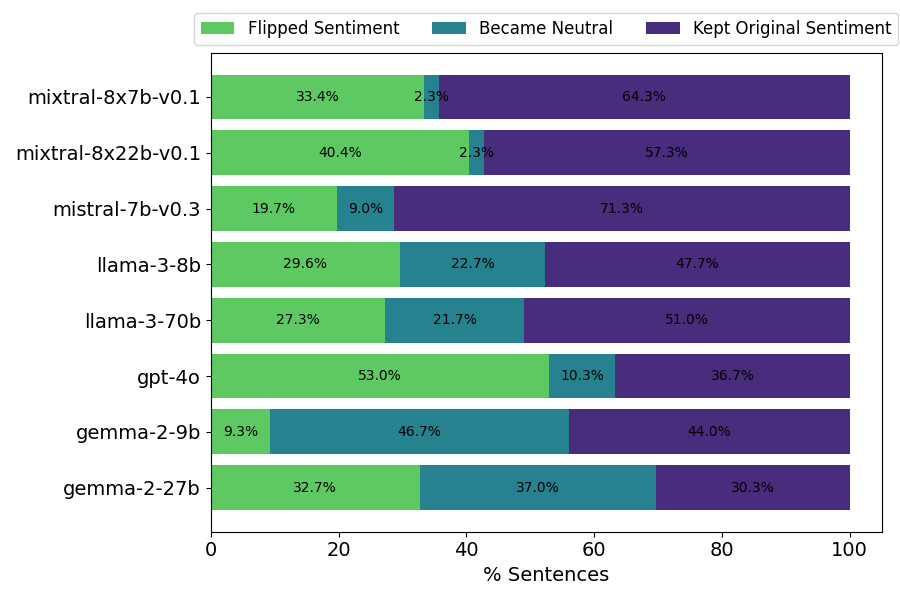
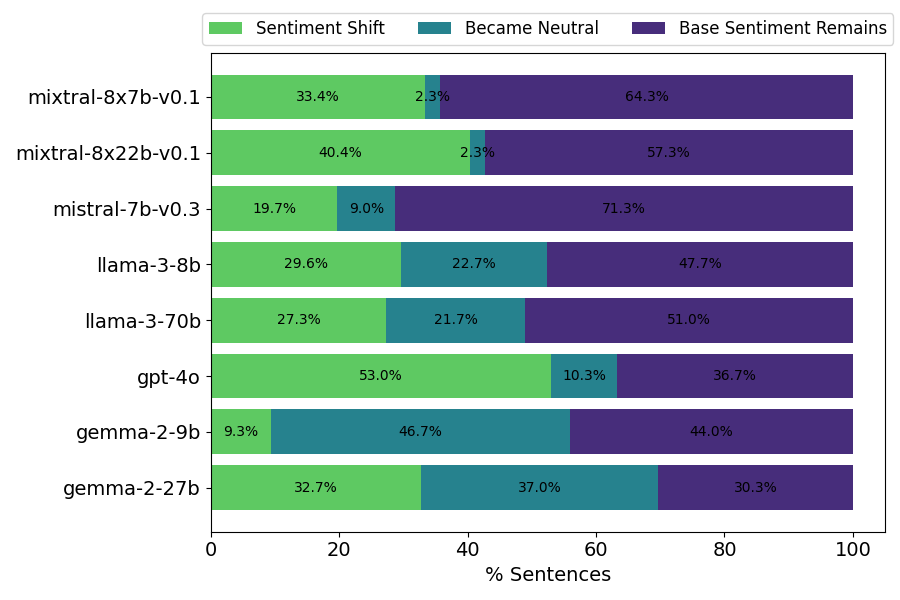
update figures for paper

diff --git a/analysis/visualize.py b/analysis/visualize.py
@@ -102,6 +102,7 @@ def run_analysis(models_dir, human_annotations_path, out_dir):
     # bar chart for humans
     colors = ["#6495ED" for _ in only_model_correlation.index]
     fig, ax = plt.subplots(figsize=(6, 4))
+    only_humans_correlation = only_humans_correlation.iloc[::-1]
     bars = ax.barh(only_humans_correlation.index, only_humans_correlation.values, color=colors)
     # Add text labels with the values
     for bar in bars:
@@ -180,8 +181,8 @@ def run_analysis(models_dir, human_annotations_path, out_dir):
         flipped_percentage[j].reverse()
     flipped_percentage = np.array(flipped_percentage)
 
-    categories = [f"{i} Flipped" for i in range(6)]
-    col_names = ['Positive', 'Negative']
+    categories = [f"{i}" for i in range(6)]
+    col_names = ['Positive Base', 'Negative Base']
     categories.reverse()
     fig, ax = plt.subplots(figsize=(9, 6))
     bars = []
@@ -205,7 +206,8 @@ def run_analysis(models_dir, human_annotations_path, out_dir):
     ax.set_xlabel('% Sentences', fontsize=14)
     plt.yticks(fontsize=14)
     plt.xticks(fontsize=14)
-    ax.legend(loc='upper right', bbox_to_anchor=(1, 1.10), ncol=len(categories), fontsize=11)
+    # set y label
+    ax.legend(loc='upper right', bbox_to_anchor=(0.9, 1.20), ncol=len(categories), fontsize=14, title="Num Sentiment Shifts", title_fontsize=14)
     plt.tight_layout()
 
     # Show the plot
@@ -247,7 +249,7 @@ def plot_model_distribution(all_model_results, model_names, key, dir_path):
         # assert total_kept_for_plot + total_to_neutral_for_plot + total_flipped_for_plot == 100
         all_models_total.append([total_flipped_for_plot, total_to_neutral_for_plot, total_kept_for_plot])
     all_models_total = np.array(all_models_total)
-    categories = ['Flipped Sentiment', 'Became Neutral', 'Kept Original Sentiment']
+    categories = ['Sentiment Shift', 'Became Neutral', 'Base Sentiment Remains']
     # Stacked bar plot
     fig, ax = plt.subplots(figsize=(9, 6))
     bars = []
